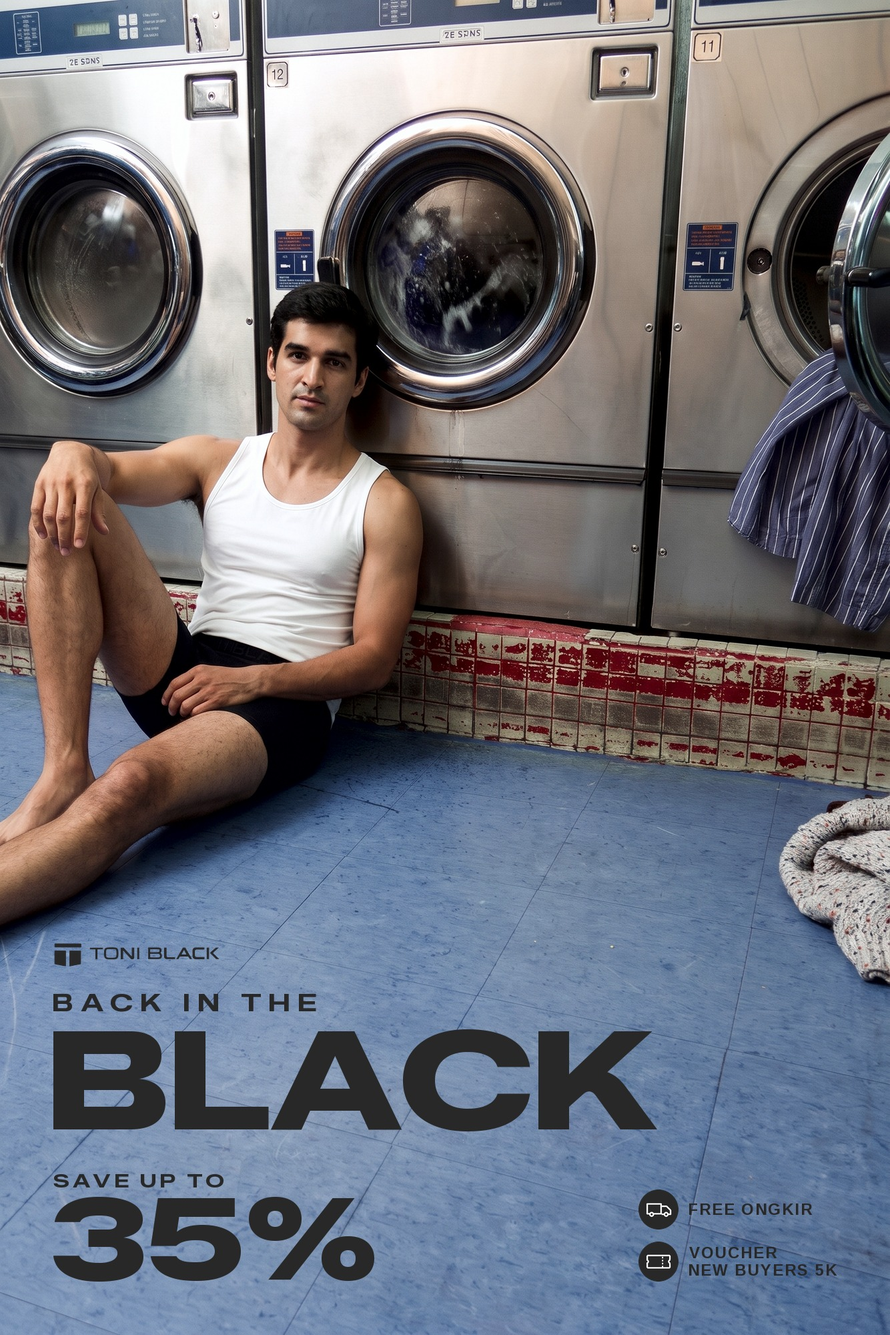
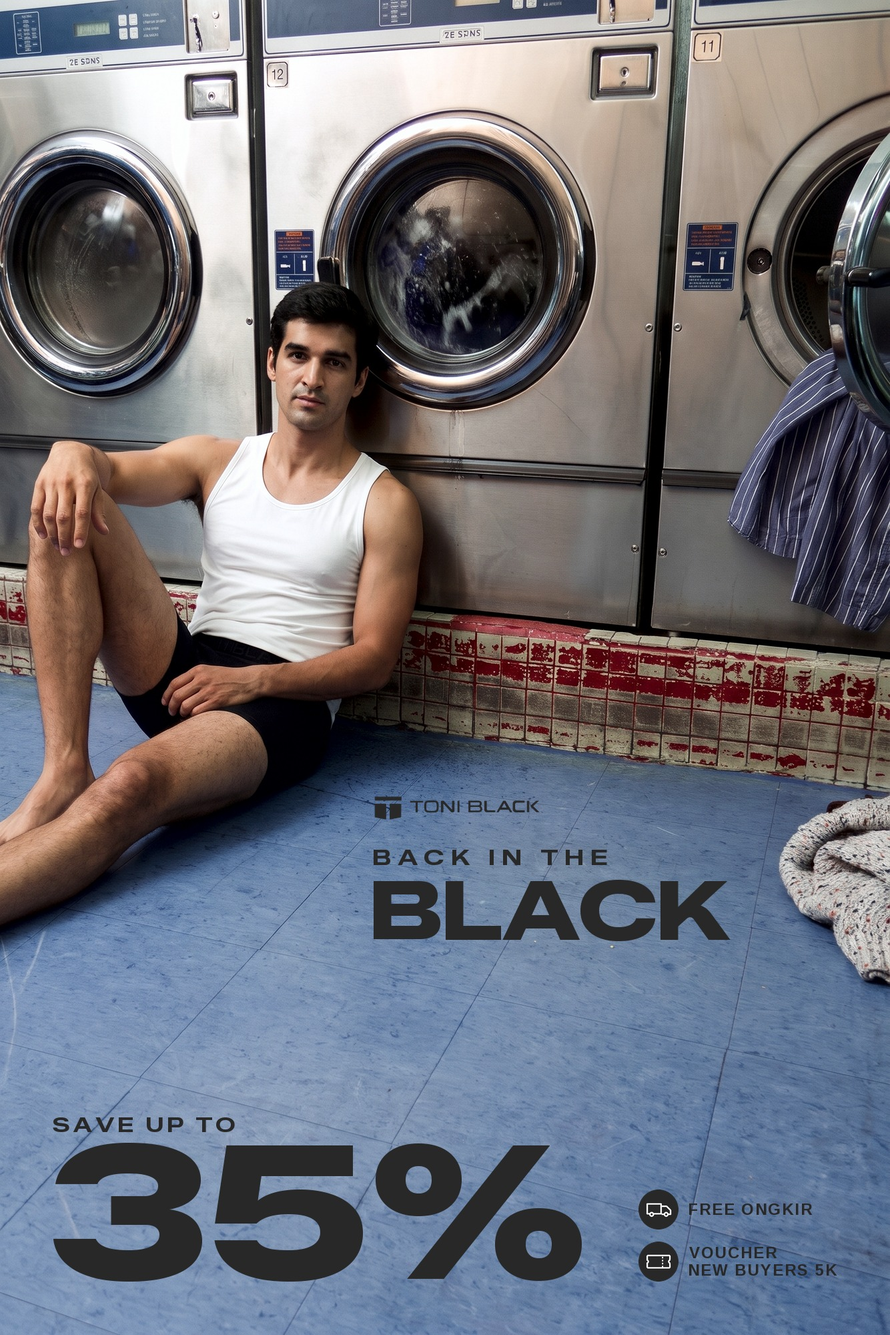
Payday November: type spread into three zones on the laundromat photo
Claude-Session: https://claude.ai/code/session_01D9RBu3wL2qzNxzBzcGFuRs

Changed region(s): [[0.0615, 0.682, 0.7376, 0.961], [0.3996, 0.589, 0.8298, 0.713]]

diff --git a/banner-payday-nov-toni-black/scripts/compose.py b/banner-payday-nov-toni-black/scripts/compose.py
@@ -220,8 +220,54 @@ def build5(photo, cutout, out, k=1, W=1334, H=2000, M=80, clear=48, jumper=(0.86
     print(f"{out}: header y {ya} | BLACK {bkw}x{bkh} at {yb} | 35% {nw}x{nh} at {oy} | badges {bx},{by} | type within {clear}px of the man/jumper: {hit} | head top {np.where(sub.any(1))[0].min()}")
     cv.convert("RGB").save(out, quality=92, optimize=True, progressive=True); return cv
 
+
+def build6(photo, cutout, out, k=1, W=1334, H=2000, M=80, clear=48, jumper=(0.86, 0.0, 1.0, 0.74), head_x=0.42, head_band=(1100, 1500)):
+    """Laundromat, spread layout: the top stays pure photo (the man, the machines); the brand unit (logo over BACK IN THE
+    over BLACK) sits on the open floor right of his legs; SAVE UP TO / 35% large bottom-left; badges bottom-right as the
+    last stop. Three zones, each with its own job, instead of one block."""
+    g = lambda v: int(round(v * k)); W, H, M = W * k, H * k, M * k
+    cv = graded(Image.open(photo)).resize((W, H), Image.LANCZOS).convert("RGBA")
+    sub = np.asarray(Image.open(cutout).split()[3].resize((W, H), Image.LANCZOS)) > 128
+    block = sub.copy(); jx0, jy0, jx1, jy1 = [int(v * (W if i % 2 == 0 else H)) for i, v in enumerate(jumper)]; block[jy0:jy1, jx0:jx1] = True
+    halo = binary_dilation(block, iterations=g(clear))
+    def free(x0, y0, x1, y1): return not halo[max(0, int(y0)):int(y1), max(0, int(x0)):int(x1)].any()
+    lay = Image.new("RGBA", (W, H), (0, 0, 0, 0)); d = ImageDraw.Draw(lay)
+    # 1 logo, top-right on the calm steel panel
+    lg = make_logo(C, 8 * k); lw = g(250); lg = lg.resize((lw, int(lg.height * lw / lg.width)), Image.LANCZOS)
+    # 2 brand unit on the open floor right of the legs: logo / BACK IN THE / BLACK, left-aligned on a second axis
+    hx = int(head_x * W); y0, y1 = g(head_band[0]), g(head_band[1])
+    fa = font(BLD, g(32)); ta = 0.30 * fa.size; aw, ah = ink("BACK IN THE", fa, ta)[2:]
+    for sz in range(g(400), g(40), -g(2)):
+        fbk = font(BLK, sz); tbk = -0.015 * sz; bkw, bkh = ink("BLACK", fbk, tbk)[2:]
+        hh = lg.height + g(44) + ah + g(22) + bkh
+        if hh > y1 - y0: continue
+        ys = [y for y in range(y0, y1 - hh + 1, g(4)) if free(hx, y, hx + max(bkw, aw, lw), y + hh)]
+        if ys: yh = ys[len(ys) // 2]; break
+    lay.paste(lg, (hx, yh), lg); ya = yh + lg.height + g(44)
+    draw(d, "BACK IN THE", fa, hx, ya, ta); draw(d, "BLACK", fbk, hx, ya + ah + g(22), tbk)
+    # 4 badges, bottom-right, right-aligned on the margin
+    bi = g(60); fb = font(ARB, g(24)); tb = 0.08 * fb.size; gap = g(16); pitch = bi + g(18)
+    rows = ((badges.truck, ["FREE ONGKIR"]), (badges.ticket, ["VOUCHER", "NEW BUYERS 5K"]))
+    bw = bi + gap + max(ink(t, fb, tb)[2] for r in rows for t in r[1]); bgh = pitch + bi
+    bx, by = W - M - bw, H - M - bgh
+    for i, (icon, labs) in enumerate(rows):
+        ic = icon(bi); yy = by + i * pitch; lay.paste(ic, (bx, yy), ic)
+        lh = ink("H", fb)[3]; lg_ = int(lh * 0.55); tot = lh * len(labs) + lg_ * (len(labs) - 1)
+        for j, t in enumerate(labs): draw(d, t, fb, bx + bi + gap, yy + (bi - tot) / 2 + j * (lh + lg_), tb)
+    # 3 offer, bottom-left: the largest SAVE UP TO / 35% that leaves 80 px to the badges
+    fk = font(BLD, g(30)); tk = 0.16 * fk.size; kw, kh = ink("SAVE UP TO", fk, tk)[2:]
+    for sz in range(g(500), g(60), -g(2)):
+        fn_ = font(BLK, sz); tn = -0.02 * sz; nw, nh = ink("35%", fn_, tn)[2:]
+        if M + nw <= bx - g(80): break
+    oy = H - M - (kh + g(16) + nh); draw(d, "SAVE UP TO", fk, M, oy, tk); draw(d, "35%", fn_, M, oy + kh + g(16), tn)
+    hit = int(((np.asarray(lay.split()[3]) > 40) & halo).sum())
+    cv.alpha_composite(lay)
+    print(f"{out}: headline at x {hx} y {yh}, BLACK {bkw}x{bkh} | 35% {nw}x{nh} at {oy} | badges {bx},{by} | type near man/jumper: {hit}")
+    cv.convert("RGB").save(out, quality=92, optimize=True, progressive=True); return cv
+
 if __name__ == "__main__":
-    a = sys.argv; v5 = "--v5" in a; v4 = "--v4" in a; fn = build3 if ("--v3" in a or v4) else build2 if "--v2" in a else build; a = [x for x in a if x not in ("--v2", "--v3", "--v4")]
+    a = sys.argv; v6 = "--v6" in a; v5 = "--v5" in a; v4 = "--v4" in a; fn = build3 if ("--v3" in a or v4) else build2 if "--v2" in a else build; a = [x for x in a if x not in ("--v2", "--v3", "--v4")]
     kw = dict(branch=(0.86, 0.12), badges_top=True) if v4 else {}
     if v5: fn, kw = build5, {}; a = [x for x in a if x != "--v5"]
+    if v6: fn, kw = build6, {}; a = [x for x in a if x != "--v6"]
     fn(a[1], a[2], a[3], k=int(a[4]) if len(a) > 4 else 1, **kw)

diff --git a/banner-payday-nov-toni-black/README.md b/banner-payday-nov-toni-black/README.md
@@ -31,3 +31,11 @@ One left axis on the wall, 80 px margin; nothing crosses the window frame, the w
 - **Photo** (`prompts/11_laundromat_wide_used.txt`): new generation with the Toni Black model's face and body as the first two references, the Drive reference `Payday-Toni.jpg` third for the place, camera angle, flash look and colours (an American coin laundromat: stainless commercial washers, worn red-and-white tile base, blue vinyl floor), then the singlet and the black boxer brief. Pose written as the reference's relaxed floor pose: sitting against the machines, one knee up with the forearm on it, the other leg stretched out, hands kept off the waistband so the boxer brief reads front-on under the flash. Framed wide so the machines and the man fill the upper half and the blue floor stays open below. The stretched foot runs out of the left edge.
 - Two passes were not used: `9_laundromat_first_not-used.txt` (good pose, but the man and the machines filled the frame, leaving only a small floor corner for type) and `10_laundromat_reframe-edit_failed.txt` (asked to pull the camera back; it kept the framing and faded the stretched leg into the floor). Three generations in this round, 198 credits for the banner in all.
 - **Typography** (`scripts/compose.py PHOTO CUTOUT OUT --v5`): all type on the open floor in charcoal (the blue floor gives about 5:1 contrast; white would be about 2.5:1). Left stack: logo, `BACK IN THE` (Zalando Bold, wide tracking), `BLACK` (Zalando Black, the largest that fits under the stretched leg in its own columns, cap 153 px). Bottom row on the margin: `SAVE UP TO` / `35%` (cap 127 px) left, the two badges right. Nothing within 48 px of the man or the knitted jumper. The man's face top-left and the type bottom-left give a Z reading path.
+
+## Revision: type spread over the frame (`--v6`, final)
+The v5 type sat in one block at the bottom. Rebuilt from open banner-layout guidance (Adobe, PMG, Quantcast, Linear Design, StackAdapt: one dominant offer, a small but consistent logo on an edge or with the brand line, deliberate negative space, asymmetric zones along the reading path) on the same photo, no credits:
+- Top: pure photo. The steel machines have no calm edge for a logo (top-left luminance spread 58.7, top-right crowded by the number tag and the machine seam).
+- Middle right, on the open floor beside the legs: the brand unit, logo `6.png` over `BACK IN THE` (Zalando Bold, wide tracking) over `BLACK` (Zalando Black), left-aligned on a second axis at 42% of the width.
+- Bottom left: `SAVE UP TO` / `35%`, the dominant element (cap 208 px, 792 wide).
+- Bottom right: the two badges, right-aligned on the margin, as the last stop.
+Nothing within 48 px of the man, the open machine door, the shirt or the knitted jumper.
